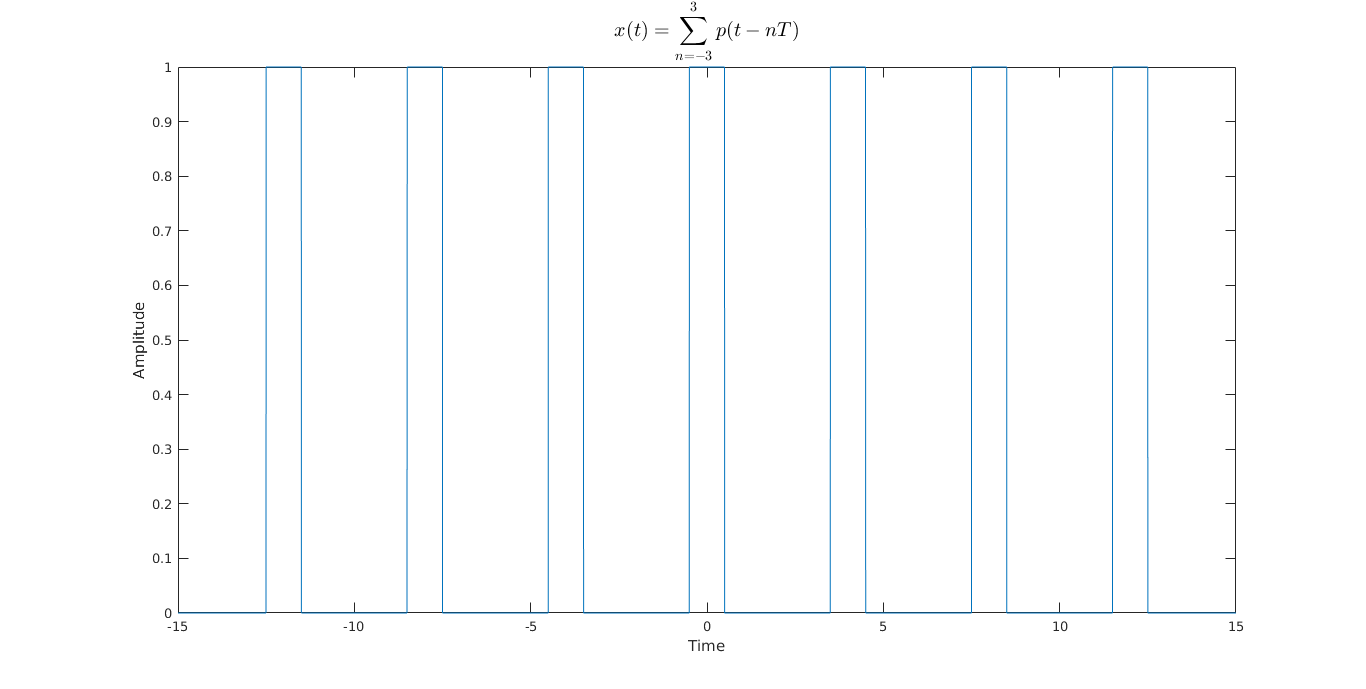
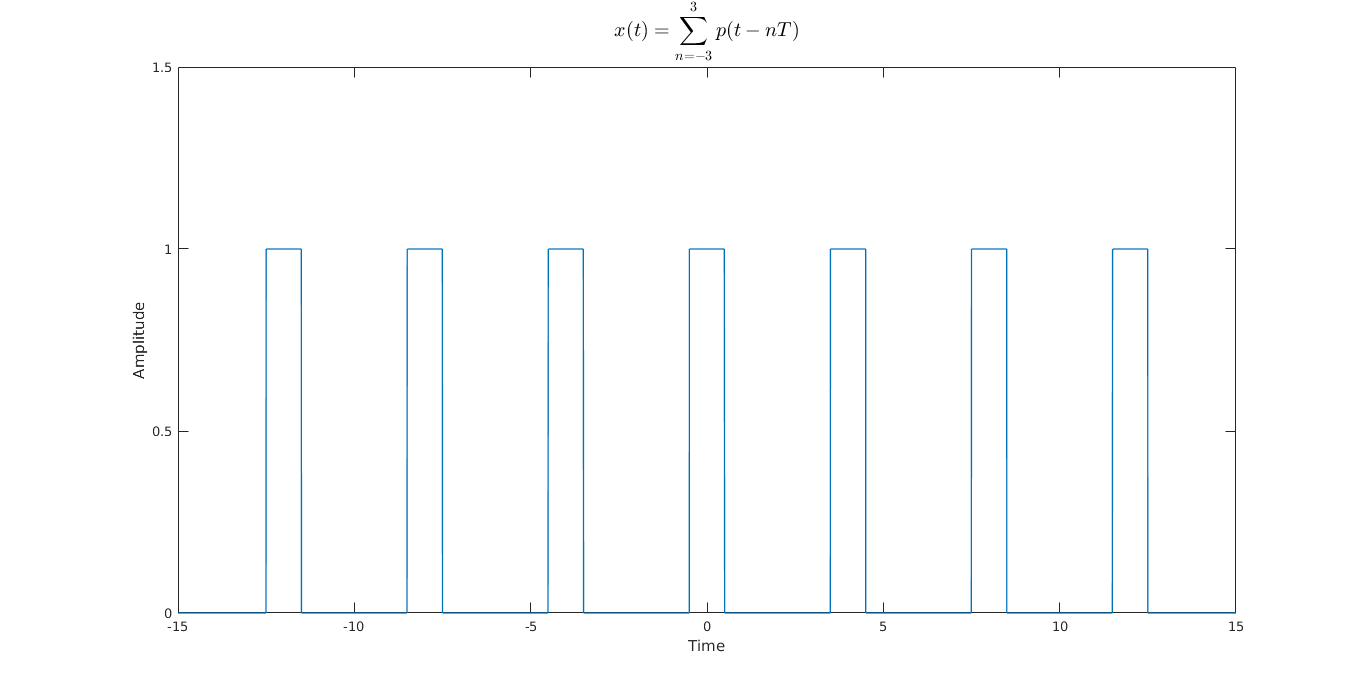
update figure

diff --git a/labs/lab06/scripts/part01.m b/labs/lab06/scripts/part01.m
@@ -8,7 +8,8 @@ end
 x = sum(x, 2)';
 
 figure;
-plot(t, x)
+plot(t, x, 'LineWidth', 1);
+ylim([0 1.5]);
 xlabel('Time');
 ylabel('Amplitude');
 title('$$x(t) = \sum_{n=-3}^{3}{p(t-nT)}$$', 'Interpreter', 'latex', 'FontSize', 15);
